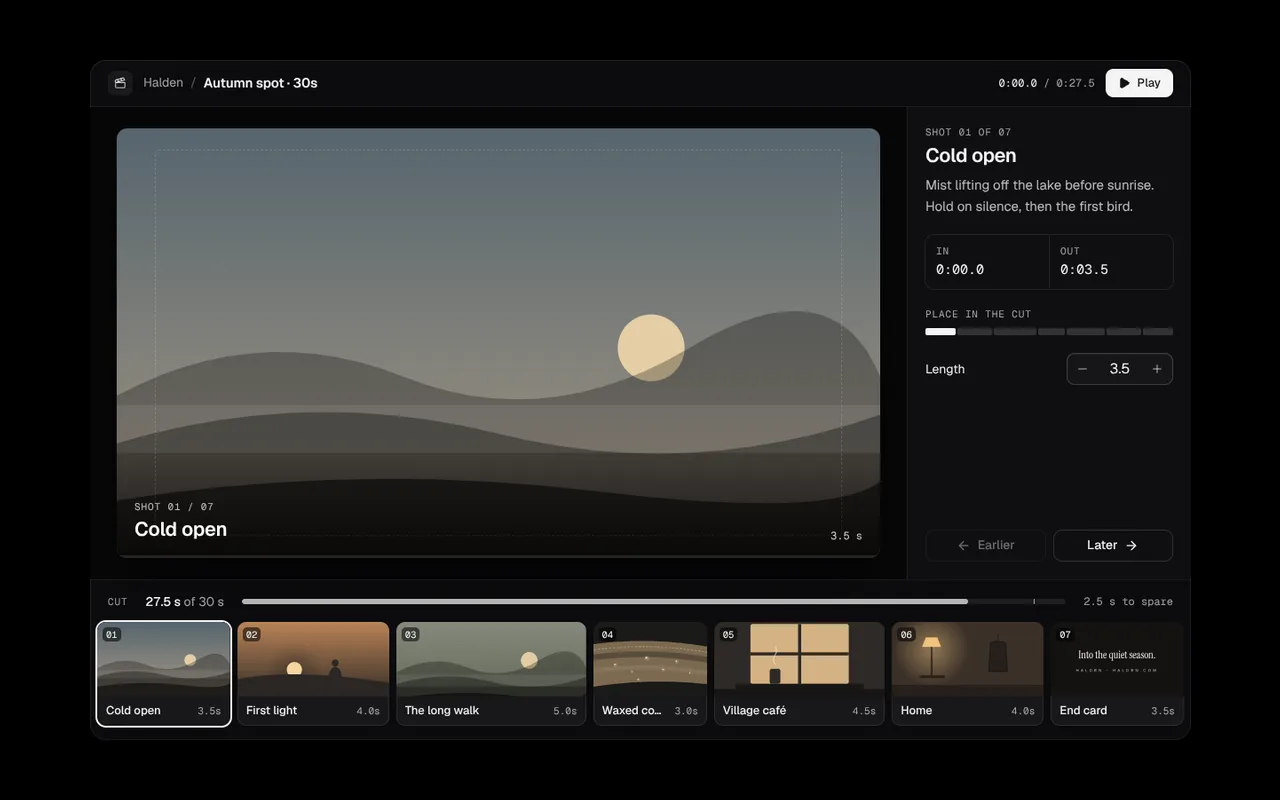
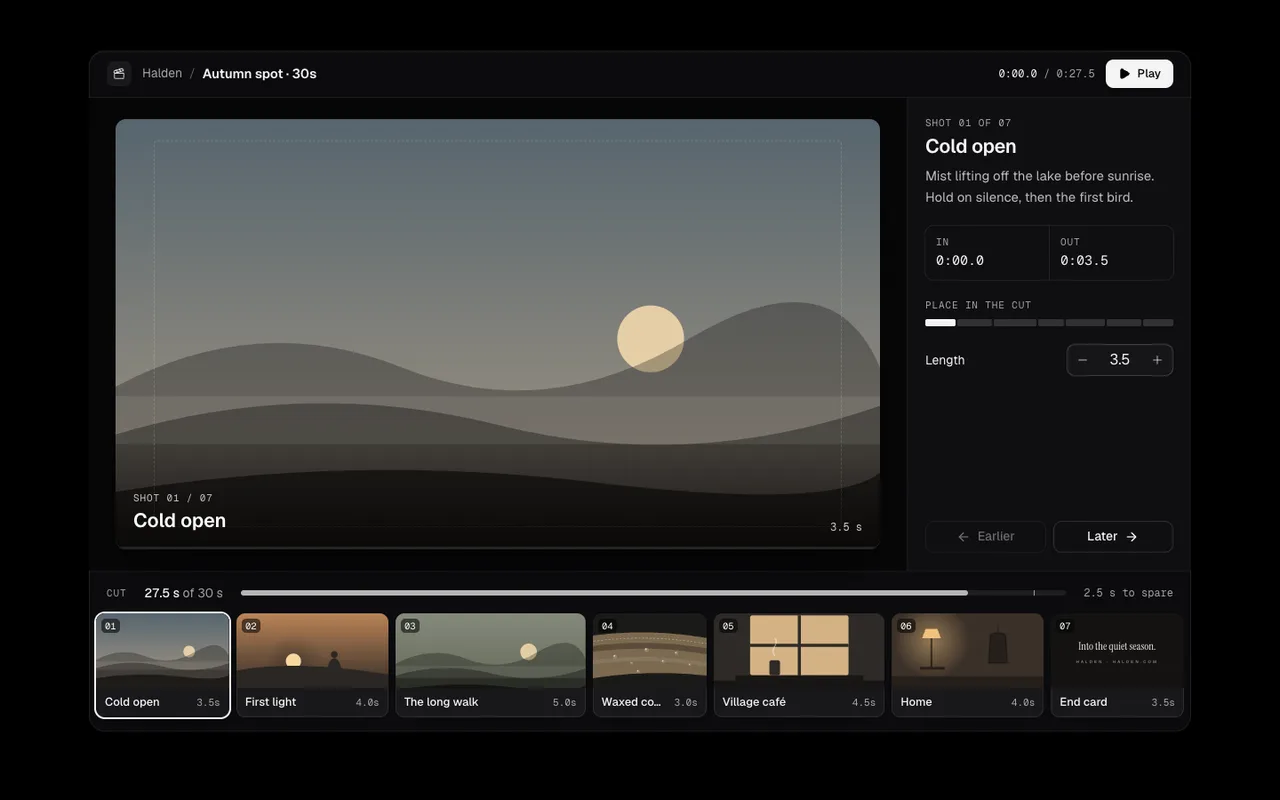
Cover storyboard edits, playback and invalid timing in the browser

diff --git a/docs/review/STATUS.md b/docs/review/STATUS.md
@@ -76,7 +76,7 @@ See [the handoff checkpoint](HANDOFF_TASKS.md#8-final-release-checks) for revisi
 | `editor-keyframe-track` | current | current | Next-backed exact-hold/keyboard/drag-commit/copied-payload/add-delete/playback/empty/invalid-clock regression passes. Overlapping phone targets are fixed with a contained timeline, 44px coarse-pointer targets and independent Home/End/arrow panning. Original failures are retained. The 35-mount source review, 28 state/default accessibility audits, six widths, entrance/state captures, five controls, official audit, actual-edit metadata replay and complete 880px framing/poster pass. Strict registry, TypeScript, isolated Pro types and all 1,063 unit tests pass. Reviewed 5.05s playback/curve-edit/selected-key film and paired poster are current; all recording guards pass. |
 | `editor-layer-stack` | current | current | Next-backed pointer/keyboard/reorder/rename/visibility-retry/copied-bounds/read-only/empty/duplicate regression passes. Proposals preserve the actual rollback frame, and selection immediately retires the previous inspector. Its 33-mount source review, 24 state/default accessibility audits, six widths, entrance/state captures, four controls, official audit and complete 900px replay/poster pass. The exploded-stage caption now meets 7.84:1 dark and 5.64:1 light in a direct contrast regression; the original failure is retained. Metadata replay requires Moon to move above Wave and collapse. Strict registry, TypeScript, isolated Pro types and all 1,063 unit tests pass. Reviewed 4.77s stack-reorder/collapse film and paired poster are current; all recording guards pass. Dependent async writes wait for acknowledgement; rejection preserves earlier accepted changes. Focus returns to a failed action without stealing later inspection focus. Controlled stacks without a writer and pending inspector actions stay unavailable; original overlap and inspector failures are preserved. The focused Next, audit, control and demo reruns pass after the 59/59 batch checkpoint. |
 | `editor-spacing-inspector` | current | current | Next-backed pointer/keyboard/linked-padding/snap/exact-layout/clipboard-retry/stale-reply/mutation/empty/invalid regression passes. Its 27-mount source review, 14 state/default accessibility audits, six widths, entrance/state captures, five controls, official audit and metadata replay pass; the replay requires a real padding increase. The initial 60.7px clipping failure is retained; matching 960px stage/preview heights, complete framing and refreshed poster pass. Strict registry, TypeScript, isolated Pro types and all 1,063 unit tests pass. Reviewed 4.6s padding/row/alignment film and paired poster are current; all recording guards pass. |
-| `editor-storyboard-strip` | new | current |  |
+| `editor-storyboard-strip` | new | current | Next-backed pointer/keyboard reorder, released trim, normalized/no-op duration input, copied scene/tone callbacks, playback/empty/invalid-timing regression passes. Inspector context and mid-grey Play contrast are fixed; original failures are retained. The 33-mount source review, eighteen state/default accessibility audits, six widths, entrance/state captures, four controls, official audit, actual-reorder/half-second-edit metadata replay and complete 900px framing/poster pass. Strict registry, root/Pro types and all 1,063 unit tests pass. |
 | `editor-version-restore` | new | current |  |
 | `three-exploded-assembly` | new | current |  |
 | `three-material-inspector` | new | current |  |

diff --git a/docs/review/HANDOFF_TASKS.md b/docs/review/HANDOFF_TASKS.md
@@ -289,6 +289,8 @@ and how to know it's done. Pick any of them up independently. Background, briefs
 
 - Task 5 follow-up: a preserved Layer Stack counterexample rejected two overlapping writes but left the first layer hidden. Dependent edits now wait for the active promise, and a later rejection preserves earlier accepted changes. Failed saves return keyboard focus unless the user inspected another layer. Controlled stacks without a writer stay read-only, including the inspector reorder controls. The final 33-mount review, 24 state/default accessibility audits, six widths, state/entrance captures, Next regression, four preview controls, official audit and default metadata replay pass. Strict registry, both type checks and all 1,063 unit tests pass. The default demo appearance is unchanged; its reviewed film remains current. This follow-up ran after the complete 59/59 browser checkpoint and is recorded separately.
 
+- Task 5: Storyboard Strip now covers pointer/keyboard reordering, released trims, normalized duration input, exact copied scene/tone callbacks, playback completion, empty boards and invalid timing. The selected inspector changes immediately, unchanged normalized entries do not emit edits, and custom hex accents keep readable Play text. The 33-mount source review, eighteen state/default accessibility audits, six widths, entrance/state captures, Next regression, four controls, official audit, metadata replay and complete 900px framing/poster pass. Original inspector, normalization, timing, callback-mutation and 4.14:1 accent failures are retained. Strict registry, both type checks and all 1,063 unit tests pass. 62 components remain without dedicated coverage.
+
 ## Ground rules (read first)
 
 - Two repos. Public: `richawo/Design-components-for-AI-agents` (this one). Pro: `richawo/Design-for-AI`, private, cloned
@@ -412,14 +414,14 @@ Its log is `test-results/handoff-next/browser-suite-green.log`.
 
 ## 5. Write browser probes for components that have none
 
-63 finished components still have no dedicated browser regression probe. For each, read its source and
+62 finished components still have no dedicated browser regression probe. For each, read its source and
 `meta.json`, then add a case to the appropriate `tests/browser/*.mjs` suite (or a new probe registered in
 `scripts/test-components.mjs`) covering: the signature interaction, keyboard paths, failed-then-successful callbacks
 with drafts kept (where it has async callbacks), and empty or invalid data. Use `tests/browser/pro-50/hr-org-explorer.mjs`
 as the model for style and depth. Mobile components render through React Native web (`scripts/lib/component-fixture.mjs` aliases it);
 see `tests/browser/mobile-accessibility-probe.mjs` for a native example.
 
-`editor-storyboard-strip`, `editor-version-restore`, `three-exploded-assembly`
+`editor-version-restore`, `three-exploded-assembly`
 `three-material-inspector`, `agents-budget-guard`, `agents-dependency-board`, `agents-run-replay`
 `ai-answer-compare`, `ai-context-budget`, `ai-structured-output`, `auth-recovery-codes`, `devtools-icon-workbench`
 `devtools-incident-timeline`, `devtools-release-compare`, `devtools-request-replay`, `devtools-schema-migration`
